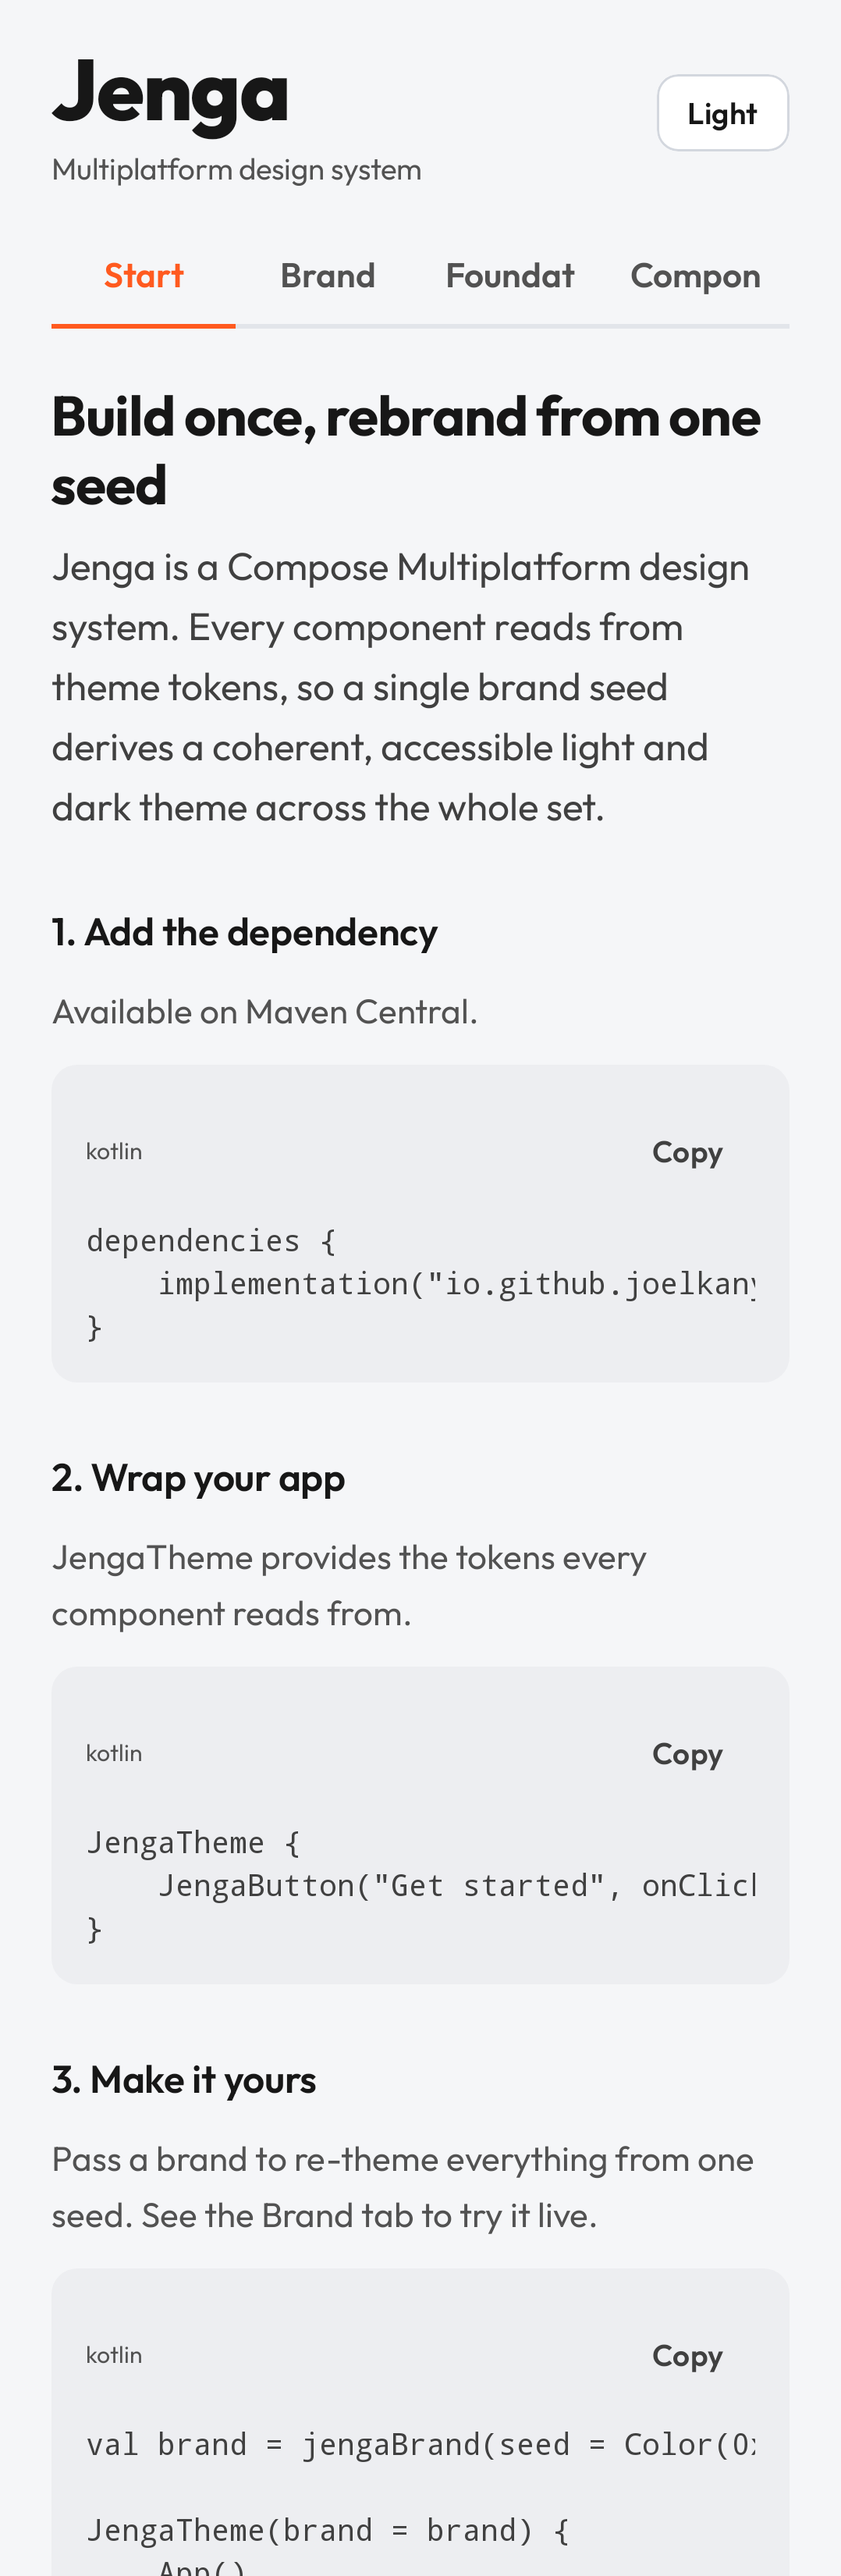
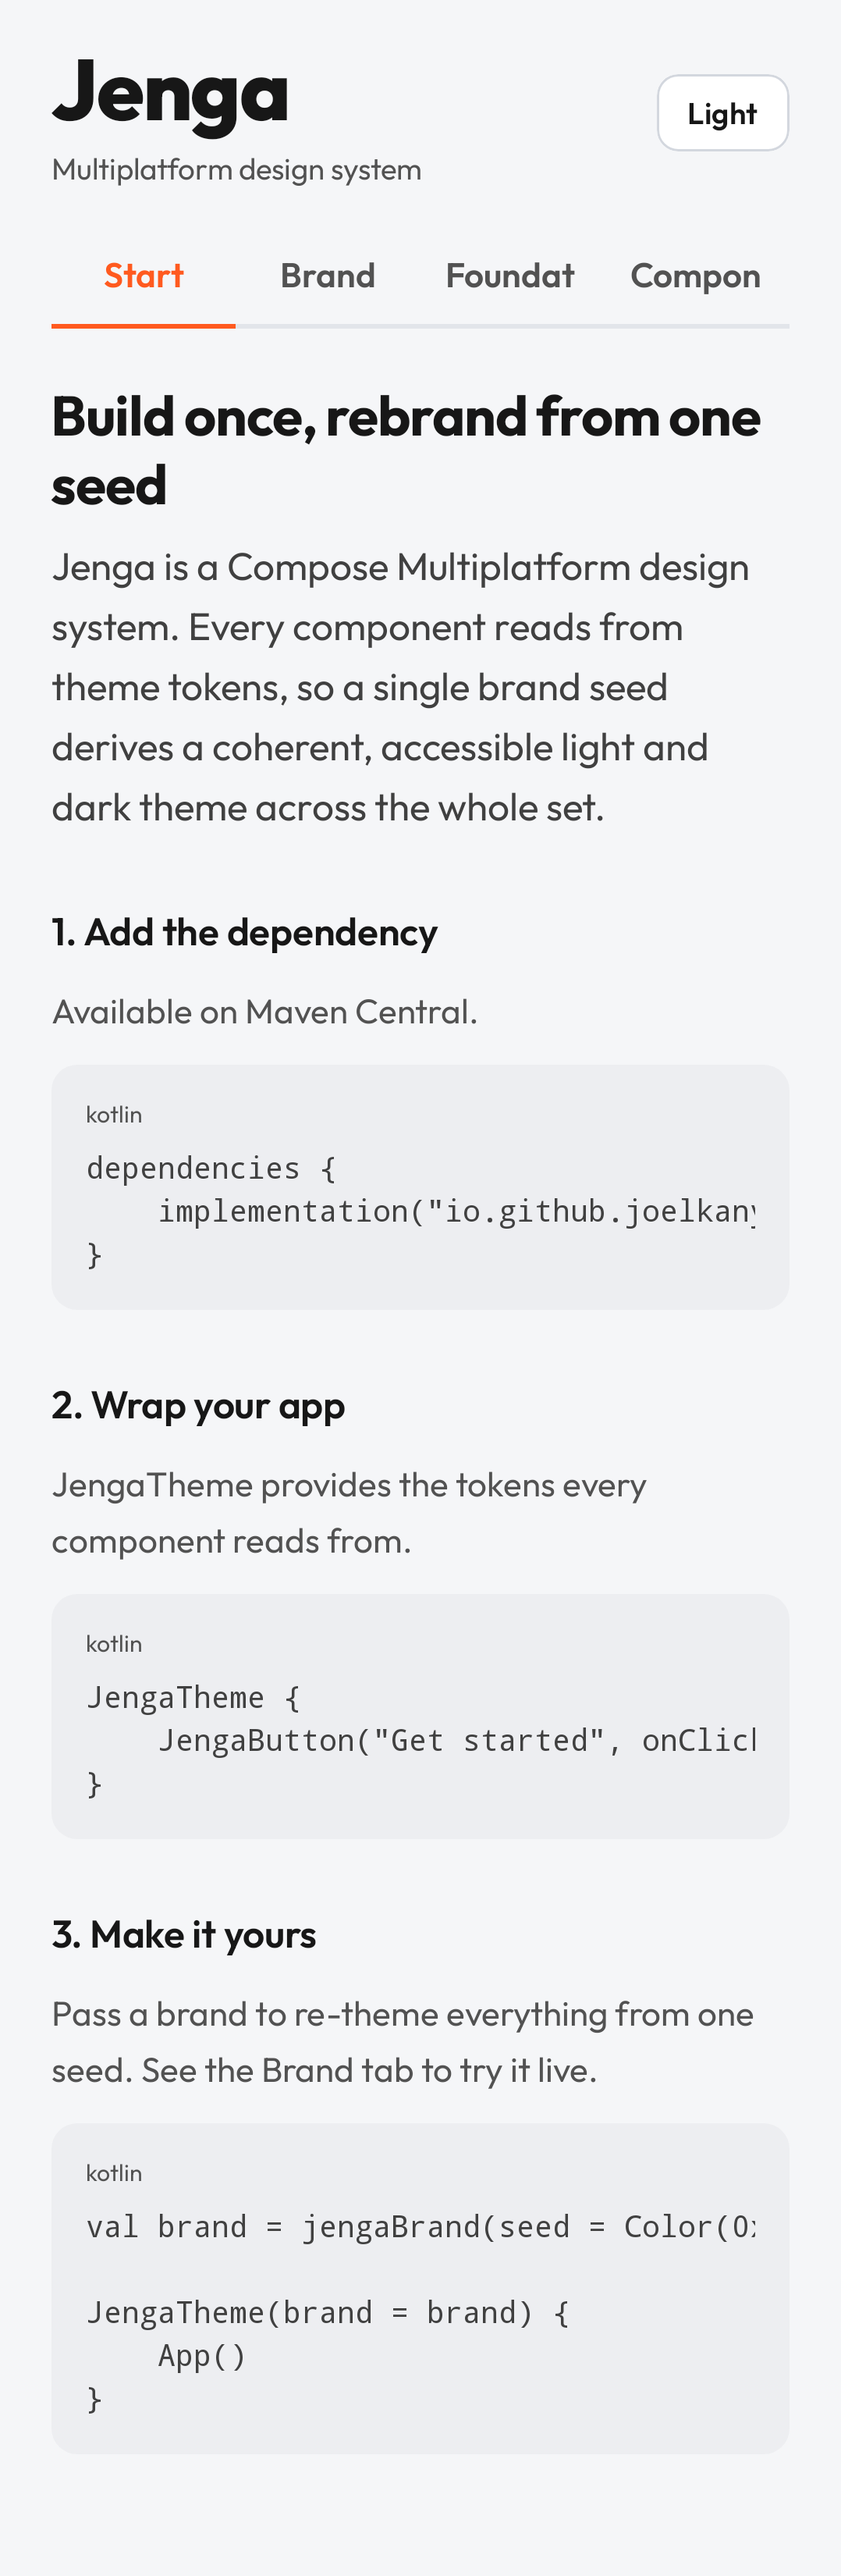
Drop the deprecated clipboard call from the catalog code block
LocalClipboardManager terminated the sample on the iOS 26.5 simulator. Remove it and the copy button; the snippet is still shown. Shell goldens re-recorded.

diff --git a/catalog/src/commonMain/kotlin/io/github/joelkanyi/jenga/catalog/CatalogCode.kt b/catalog/src/commonMain/kotlin/io/github/joelkanyi/jenga/catalog/CatalogCode.kt
@@ -4,31 +4,23 @@ import androidx.compose.foundation.background
 import androidx.compose.foundation.horizontalScroll
 import androidx.compose.foundation.layout.Arrangement
 import androidx.compose.foundation.layout.Column
-import androidx.compose.foundation.layout.Row
 import androidx.compose.foundation.layout.fillMaxWidth
 import androidx.compose.foundation.layout.padding
 import androidx.compose.foundation.rememberScrollState
 import androidx.compose.runtime.Composable
-import androidx.compose.ui.Alignment
 import androidx.compose.ui.Modifier
 import androidx.compose.ui.draw.clip
-import androidx.compose.ui.platform.LocalClipboardManager
-import androidx.compose.ui.text.AnnotatedString
 import androidx.compose.ui.text.font.FontFamily
-import io.github.joelkanyi.jenga.component.button.JengaButton
-import io.github.joelkanyi.jenga.component.button.JengaButtonSize
-import io.github.joelkanyi.jenga.component.button.JengaButtonVariant
 import io.github.joelkanyi.jenga.component.text.JengaText
 import io.github.joelkanyi.jenga.theme.JengaTheme
 
 /**
- * A monospace code block with a copy action, styled from Jenga tokens. Long lines
- * scroll horizontally so the surrounding column never widens. Pass [framed] as
- * false to drop the rounded clip when the block sits inside another frame.
+ * A monospace code block styled from Jenga tokens. Long lines scroll horizontally
+ * so the surrounding column never widens. Pass [framed] as false to drop the
+ * rounded clip when the block sits inside another frame.
  */
 @Composable
 fun CatalogCode(code: String, modifier: Modifier = Modifier, framed: Boolean = true) {
-    val clipboard = LocalClipboardManager.current
     Column(
         modifier = modifier
             .fillMaxWidth()
@@ -37,20 +29,11 @@ fun CatalogCode(code: String, modifier: Modifier = Modifier, framed: Boolean = t
             .padding(JengaTheme.spacing.lg),
         verticalArrangement = Arrangement.spacedBy(JengaTheme.spacing.sm),
     ) {
-        Row(verticalAlignment = Alignment.CenterVertically) {
-            JengaText(
-                text = "kotlin",
-                style = JengaTheme.typography.caption,
-                color = JengaTheme.colors.textMuted,
-                modifier = Modifier.weight(1f),
-            )
-            JengaButton(
-                text = "Copy",
-                onClick = { clipboard.setText(AnnotatedString(code)) },
-                variant = JengaButtonVariant.Ghost,
-                size = JengaButtonSize.Small,
-            )
-        }
+        JengaText(
+            text = "kotlin",
+            style = JengaTheme.typography.caption,
+            color = JengaTheme.colors.textMuted,
+        )
         JengaText(
             text = code,
             style = JengaTheme.typography.bodySmall.copy(fontFamily = FontFamily.Monospace),
